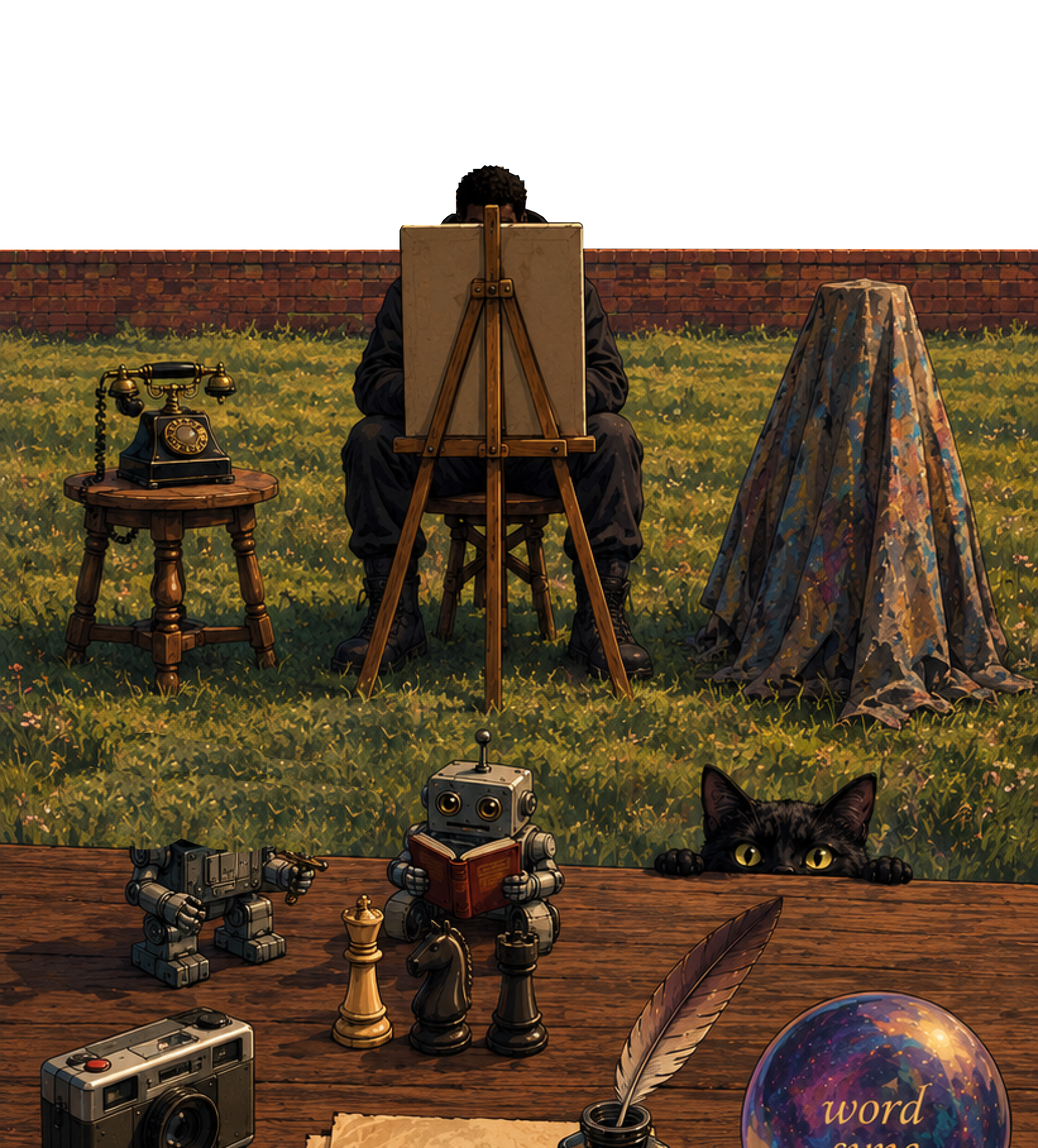
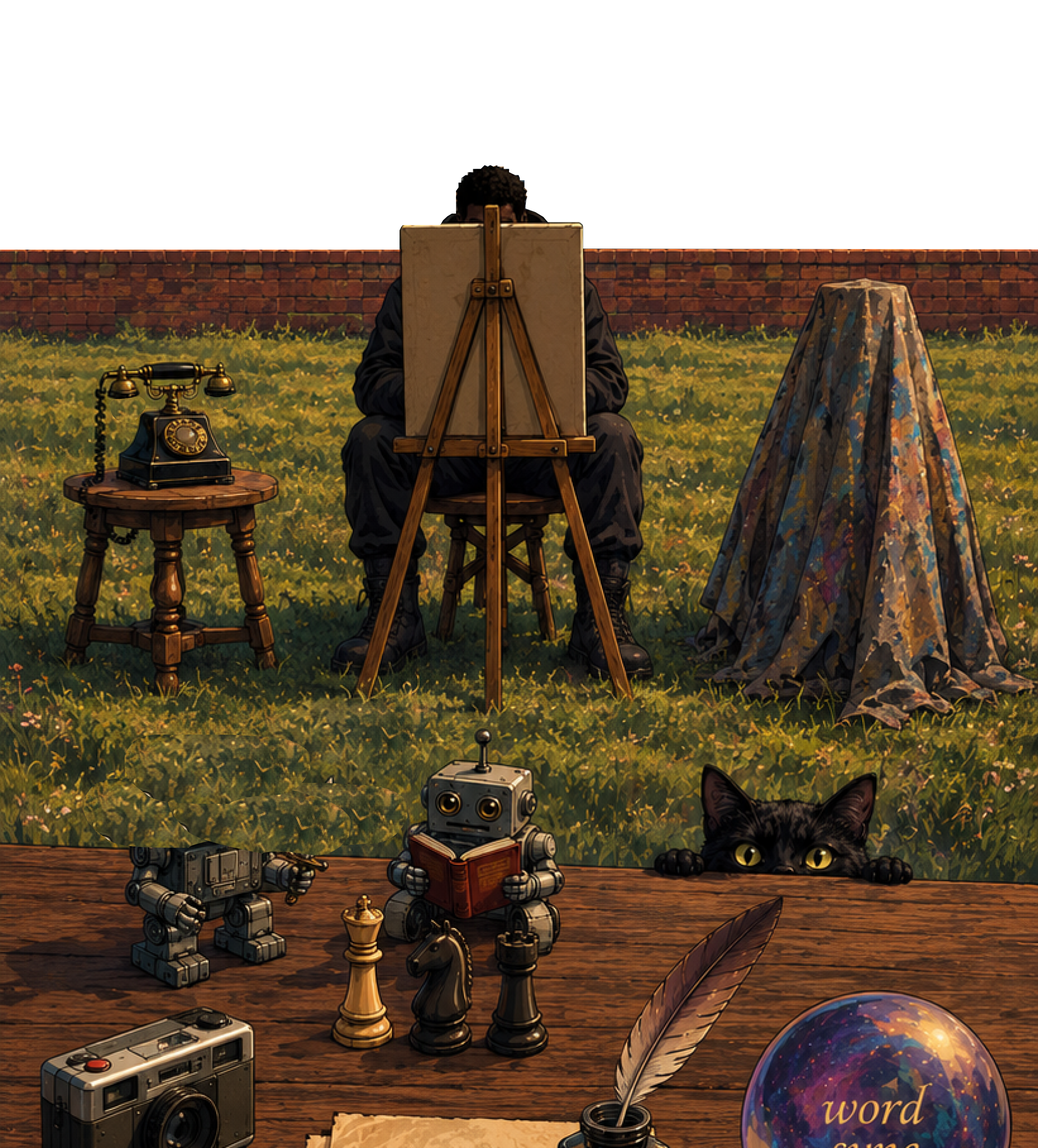
wip: some parallax blurring

Changed region(s): [[0.0621, 0.3111, 0.3106, 0.56], [0.0621, 0.5911, 0.4038, 0.7467]]

diff --git a/index.html b/index.html
@@ -14,10 +14,10 @@
         width: 100vw;
         height: 100vh;
         background-color: #000;
-        /* background-image: url('/src/assets/images/full_site.png'); */
+        background-image: url("/src/assets/images/full_site.png");
         background-position: center top;
         background-repeat: no-repeat;
-        background-size: cover;
+        background-size: 160vw;
         color: #fff;
         font-family: system-ui, -apple-system, BlinkMacSystemFont, "Segoe UI",
           Roboto, sans-serif;
@@ -116,23 +116,28 @@
 
           const parallaxMult =
             (PARALLAX_WH_ASPECT_RATIO * window.innerHeight) / window.innerWidth;
-
-          console.log(scrollProgress, parallaxMult);
+          const BLUR_PX = 9;
 
           if (this._skyLayer) {
             const skyScrollDy =
               (this._scrollProgress * SKY_PARALLAX) / parallaxMult;
             this._skyLayer.style.transform = `translateY(-${skyScrollDy}px)`;
+            const bgBlur = scrollProgress + 0.5 * BLUR_PX;
+            this._skyLayer.style.backdropFilter = `blur(${bgBlur}px)`;
           }
           if (this._midLayer) {
             const midScrollDy =
               (this._scrollProgress * GRASS_PARALLAX) / parallaxMult;
             this._midLayer.style.transform = `translateY(-${midScrollDy}px)`;
+            const bgBlur = Math.max(0, scrollProgress - 0.2) * BLUR_PX;
+            this._midLayer.style.backdropFilter = `blur(${bgBlur}px)`;
           }
           if (this._foreLayer) {
             const endScrollDy =
               (this._scrollProgress * TABLE_PARALLAX) / parallaxMult;
             this._foreLayer.style.transform = `translateY(-${endScrollDy}px)`;
+            const bgBlur = Math.max(0, scrollProgress - 0.4) * BLUR_PX;
+            this._foreLayer.style.backdropFilter = `blur(${bgBlur}px)`;
           }
         }
 
@@ -165,20 +170,12 @@
                 position: fixed;
                 left: 0;
                 right: 0;
+                top: 0;
                 height: 1000vw;
                 overflow: hidden;
                 pointer-events: none;
                 will-change: transform;
                 transition: transform 0.15s ease-out;
-              }
-              .layer-sky {
-                top: 0;
-              }
-              .layer-mid {
-                top: 68vw;
-              }
-              .layer-fore {
-                top: 108.4vw;
               }
               .art-bg {
                 position: absolute;
@@ -191,21 +188,28 @@
               }
               .bg-sky {
                 top: 0;
-                height: 100vw;
+                height: 94vw;
                 background-position: center top;
                 background-image: url('${ARTWORK_SRC_TOP}');
               }
               .bg-mid {
-                top: 0;
+                top: 68vw;
                 height: 84vw;
                 background-position: center top;
                 background-image: url('${ARTWORK_SRC_MID}');
               }
               .bg-fore {
-                top: 0;
+                top: 109vw;
                 height: 123vw;
                 background-position: center top;
                 background-image: url('${ARTWORK_SRC_END}');
+              }
+              .footer {
+                height: 100vh;
+                width: 100vw;
+                background: black;
+                position: absolute;
+                top: 232vw;
               }
             </style>
             <div class="sticky-stage" id="stage">
@@ -223,6 +227,8 @@
                 <!-- SECTION 3: FOREGROUND -->
                 <div id="layer-fore" class="layer layer-fore">
                   <div class="art-bg bg-fore"></div>
+                  <div class="footer">
+                  </div>
                 </div>
               </div>
             </div>
